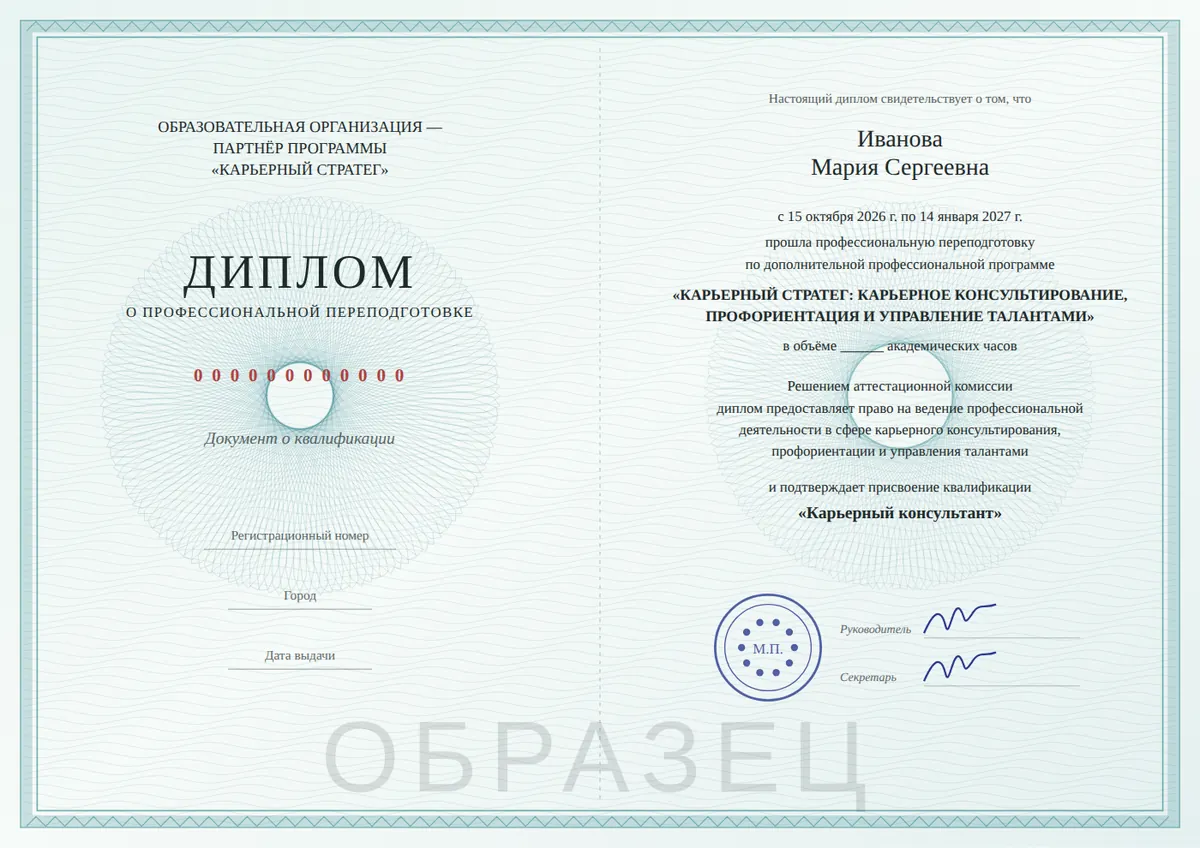
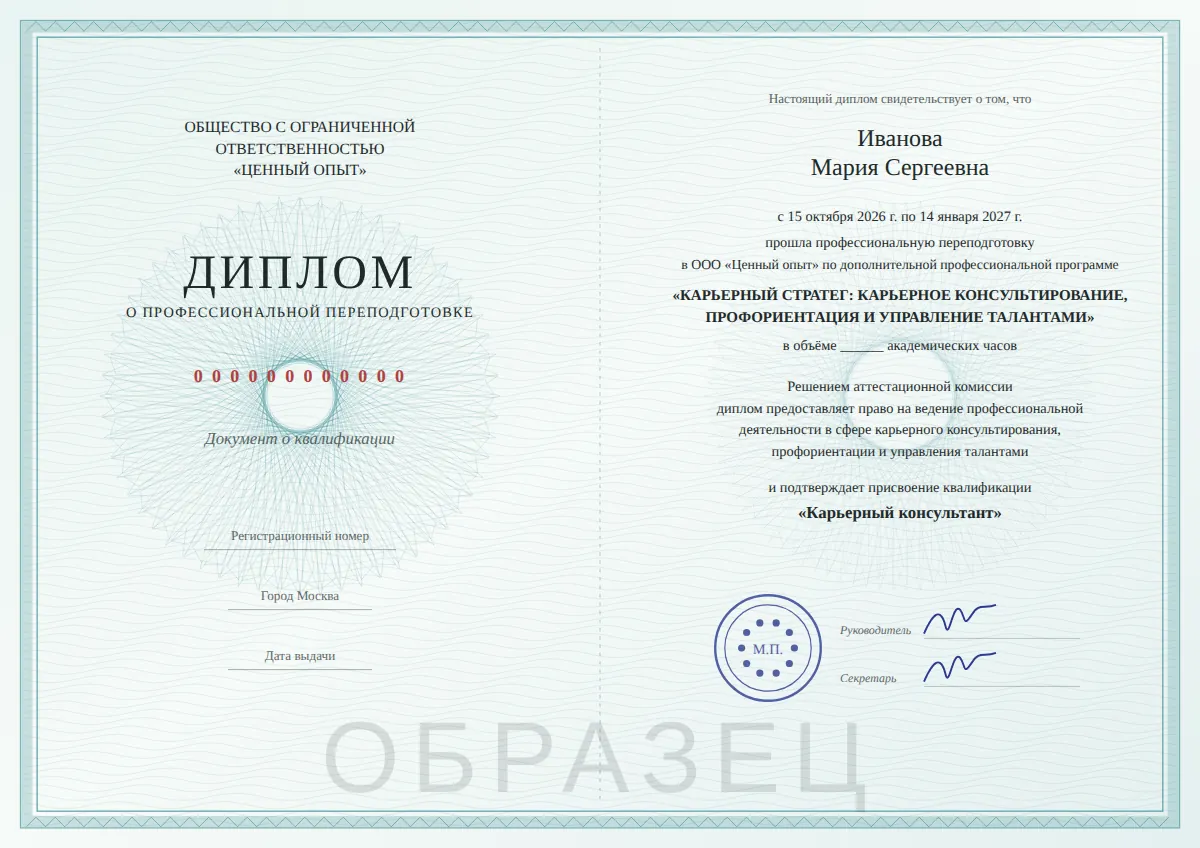
Партнёр «Ценный опыт», расписание, рассрочка Продамус, взнос АККС, кейсы, доп. кнопки записи
- ООО «Ценный опыт» в документах, оферте, футере и на образце диплома
- эфиры по воскресеньям в 13:00 мск, нагрузка 6 часов в неделю
- рассрочка через «Продамус», 6 банков; взнос АККС 6 000 ₽, первый год за счёт школы
- три мини-кейса под логотипами клиентов, логотип и сертификат АККС
- ещё три кнопки записи по странице, разница тарифов в карточке «Продвинутого»

Claude-Session: https://claude.ai/code/session_01MnFDxTyUvkRmjoPs4gTF9a

diff --git a/index.html b/index.html
@@ -53,12 +53,12 @@
       "mainEntity": [
         { "@type": "Question", "name": "Будет ли курс полезен лично мне, если я уже работаю в HR?", "acceptedAnswer": { "@type": "Answer", "text": "Да. Программа даёт то, чего обычно не хватает в операционном HR: доказательную психометрику, ИИ-инструменты на каждом этапе и язык бизнеса — ROI, eNPS, удержание." } },
         { "@type": "Question", "name": "Не слишком ли дорого?", "acceptedAnswer": { "@type": "Answer", "text": "Чтобы закрыть три компетенции отдельными курсами у разных школ, нужно от 300 000 ₽. Здесь это одна программа и один тариф без докупок, с рассрочкой на 24 месяца без переплаты." } },
-        { "@type": "Question", "name": "Смогу ли я совмещать с работой и семьёй?", "acceptedAnswer": { "@type": "Answer", "text": "Один живой модуль в неделю, запись появляется в личном кабинете. Практикумы и домашние задания выполняете в удобное время. По-честному: внутри много работы, закладывайте время каждую неделю — на эфир, практикум и домашку." } },
+        { "@type": "Question", "name": "Смогу ли я совмещать с работой и семьёй?", "acceptedAnswer": { "@type": "Answer", "text": "Живой модуль — по воскресеньям в 13:00 по Москве, запись появляется в личном кабинете. Закладывайте 6 часов в неделю: эфир, менторская группа, практика и домашка." } },
         { "@type": "Question", "name": "Найду ли я первых клиентов без опыта?", "acceptedAnswer": { "@type": "Answer", "text": "Практика идёт внутри курса на реальных и учебных кейсах, первые пилотные клиенты — из вашего окружения. В тарифе «Продвинутый» есть бонусный модуль «Построение и продвижение частной практики»: упаковка, цена, где брать клиентов." } },
         { "@type": "Question", "name": "Нужно ли профильное образование (психология)?", "acceptedAnswer": { "@type": "Answer", "text": "Нет. Важнее эмпатия и управленческий или HR-опыт." } },
         { "@type": "Question", "name": "Чем курс отличается от астрологии, таро или соционики?", "acceptedAnswer": { "@type": "Answer", "text": "Мы не гадаем по типу личности. В основе — Big Five, модель с самой серьёзной научной базой, её используют в 150+ странах." } },
         { "@type": "Question", "name": "Смогу ли я работать с ИИ, если я не технарь?", "acceptedAnswer": { "@type": "Answer", "text": "Да. Все промпты готовы и встроены в шаблоны. От вас нужна роль куратора: проверить, откалибровать и утвердить результат." } },
-        { "@type": "Question", "name": "В чём разница тарифов 99 900 и 159 900 ₽?", "acceptedAnswer": { "@type": "Answer", "text": "«Продвинутый» добавляет защиту итогового проекта, диплом о профессиональной переподготовке установленного образца, членство в АККС и бонусный модуль «Построение и продвижение частной практики»." } },
+        { "@type": "Question", "name": "В чём разница тарифов 99 900 и 159 900 ₽?", "acceptedAnswer": { "@type": "Answer", "text": "«Продвинутый» добавляет защиту итогового проекта, диплом о профессиональной переподготовке установленного образца от ООО «Ценный опыт», членство в АККС с оплаченным первым годом и бонусный модуль «Построение и продвижение частной практики»." } },
         { "@type": "Question", "name": "Что даёт членство в АККС на практике?", "acceptedAnswer": { "@type": "Answer", "text": "Статус и знак качества для клиентов, супервизию и наставничество, закрытый клуб выпускников и совместные проекты от имени ассоциации." } },
         { "@type": "Question", "name": "Что если я не успеваю по времени?", "acceptedAnswer": { "@type": "Answer", "text": "Записи всех эфиров остаются в личном кабинете, срок доступа указан в оферте." } }
       ]
@@ -183,7 +183,7 @@
 <!-- 03 SHIFT -->
 <section class="sec sec--sand">
   <div class="wrap stack-48">
-    <h2 class="h2 h2--shift">Но что, если ваша ценность больше не измеряется <span class="muted">числом закрытых вакансий или сессий?</span></h2>
+    <h2 class="h2 h2--shift">Но что, если ваша ценность больше не измеряется <span class="muted">числом закрытых вакансий, сессий или годами в одной профессии?</span></h2>
     <div class="stack-12">
       <div class="shift"><div class="shift__from"><span class="label">01 · Было</span><span class="shift__big">Интуиция</span></div><div class="shift__to"><span class="label">Стало</span><span class="shift__big">→ Доказательная методология</span><span class="shift__d">Решения на основе психометрики (Big Five), а не «мне так кажется»</span></div></div>
       <div class="shift"><div class="shift__from"><span class="label">02 · Было</span><span class="shift__big">Рутина</span></div><div class="shift__to"><span class="label">Стало</span><span class="shift__big">→ Стратегия</span><span class="shift__d">Резюме и расчёты соберёт ИИ. А вы будете тем, кто видит, где он наврал — и где человек напротив себя обманывает</span></div></div>
@@ -209,6 +209,12 @@
       <div class="usp" tabindex="0"><div class="usp__top"><span class="usp__n">05</span><span class="usp__gem"></span></div><div><h3>Двойное применение навыков</h3><p>В найме (HRBP, Talent Manager) и в независимой практике</p></div></div>
       <div class="usp" tabindex="0"><div class="usp__top"><span class="usp__n">06</span><span class="usp__gem"></span></div><div><h3>Самый системный курс на рынке*</h3><p>Одна система вместо трёх курсов, которые потом придётся склеивать самой</p></div></div>
       <p class="usp-note">* По итогам кастдева: опрос 260 человек из целевой аудитории программы.</p>
+    </div>
+  </div>
+  <div class="wrap">
+    <div class="cta-strip">
+      <p>Старт 15 октября. Места в менторских группах ограничены.</p>
+      <a class="btn-pill btn-pill--gold btn-pill--lg btn-pill--wrap" href="#apply" data-cta="main">Записаться на поток</a>
     </div>
   </div>
 </section>
@@ -296,7 +302,7 @@
         </blockquote>
         <div class="honest">
           <span class="label label--terra">Честно о том, кому рано</span>
-          <p>Если вы в остром выгорании и сил нет совсем — сначала восстановитесь. Курс требует времени каждую неделю, это не терапия.</p>
+          <p>Если вы в остром выгорании и сил нет совсем — сначала восстановитесь. Курс требует 6 часов в неделю, это не терапия.</p>
           <p>Если пока не понятно, хотите ли вы вообще работать с людьми, — начните с бесплатной консультации. Иногда я говорю «вам пока не сюда» — и это нормально.</p>
         </div>
         <a class="btn-pill btn-pill--teal btn-pill--lg btn-pill--wrap" href="#apply" data-plan="Консультация: разбор перехода">Разобрать мой переход на консультации</a>
@@ -336,6 +342,27 @@
       <ul class="clients">
         <li>Касперский</li><li>Сбер</li><li>Т-Банк</li><li>МТС</li><li>Крок</li><li>Лемана Про</li><li>Polaris</li><li>Philip Morris</li><li>Haier</li><li>Россети</li>
       </ul>
+      <div class="cases">
+        <article class="case">
+          <span class="case__seg">HR · смена роли</span>
+          <h3>Оффер ещё до конца мастерской</h3>
+          <p><b>Было:</b> 2 года в IT-рекрутинге «потому что так сложилось», параллельно психология и CV-райтинг — и ни в чём нет «хочу».</p>
+          <p><b>Стало:</b> оффер во время программы, последняя встреча совпала с последним днём на старом месте. Сейчас — стартап: таланты, комьюнити, коммуникации.</p>
+        </article>
+        <article class="case">
+          <span class="case__seg">Смена профессии</span>
+          <h3>10 лет госслужбы → своя практика</h3>
+          <p><b>Было:</b> почти 10 лет на нелюбимой работе, выгорание, «ничего не знаю, не умею и никому не нужна».</p>
+          <p><b>Стало:</b> переход в коммерческий проект с удалёнкой, через 3 года — своя практика: консультации расписаны на месяц вперёд, доход сравнялся с наймом.</p>
+        </article>
+        <article class="case">
+          <span class="case__seg">50+ · 20 лет в профессии</span>
+          <h3>Хотела уйти — перевлюбилась в свою работу</h3>
+          <p><b>Было:</b> замглавреда крупного IT-издания, 20 лет копирайтинга «без удовольствия», почти ушла в продюсеры.</p>
+          <p><b>Стало:</b> осталась в профессии, но сменила роль: офлайн-площадки, партнёрские проекты, выступления спикером и медиатором.</p>
+        </article>
+      </div>
+      <p class="hint">Имена и детали изменены по просьбе клиентов.</p>
     </div>
     <div class="author__stage">
       <div class="author__stage-photo">
@@ -367,8 +394,8 @@
     <div class="facts-grid">
       <div><b>3</b><span>месяца</span></div>
       <div><b>13</b><span>недель</span></div>
-      <div><b>3</b><span>модуля + бонус</span></div>
-      <div><b>1</b><span>живой модуль в неделю</span></div>
+      <div><b>Вс 13:00</b><span>живой эфир, мск</span></div>
+      <div><b>6 ч</b><span>в неделю с практикой</span></div>
     </div>
     <div class="mod-tabs" role="tablist" aria-label="Модули программы">
       <button class="mod-tab is-active" role="tab" aria-selected="true" data-mod="0"><span>Модуль 1 · недели 1–5</span><b>Карьерное консультирование</b></button>
@@ -453,14 +480,15 @@
       <div class="ruled">
         <h3 class="h3">Формат обучения</h3>
         <ul class="gem-list">
-          <li>Еженедельный живой модуль (вебинар/эфир) + запись в личном кабинете</li>
+          <li>Живой модуль каждое воскресенье в 13:00 по Москве + запись в личном кабинете</li>
+          <li>Менторская группа и отработка на практике между эфирами</li>
           <li>Практикум после каждой темы на реальных или учебных кейсах</li>
           <li>Домашние задания с обратной связью куратора</li>
           <li>Групповая супервизия проведённых сессий</li>
           <li>Библиотека шаблонов: сессии, отчёты, договоры, презентации для бизнеса</li>
           <li>ИИ-инструменты и промпт-библиотека встроены в каждый модуль</li>
         </ul>
-        <p class="body-muted honest-line">По-честному: внутри много работы. Закладывайте время каждую неделю — на эфир, практикум и домашку. Меньше не получится, если хотите профессию, а не сертификат.</p>
+        <p class="body-muted honest-line">По-честному: внутри много работы. Закладывайте 6 часов в неделю — эфир, менторская группа, практика и домашка. Меньше не получится, если хотите профессию, а не сертификат.</p>
       </div>
       <div class="ruled">
         <h3 class="h3">Итоговая аттестация</h3>
@@ -470,6 +498,10 @@
           <div><b>Трек «Практика»</b><span>Запуск независимой консультационной практики: пакет услуг, ценообразование, первые кейсы, расчёт LTV</span></div>
         </div>
       </div>
+    </div>
+    <div class="cta-strip">
+      <p>Хотите сначала обсудить программу? Оставьте заявку — ответим на вопросы и поможем выбрать тариф.</p>
+      <a class="btn-pill btn-pill--gold btn-pill--lg btn-pill--wrap" href="#apply" data-cta="main">Записаться на поток</a>
     </div>
   </div>
 </section>
@@ -565,7 +597,7 @@
         <span class="eyebrow eyebrow--gold">Документы</span>
         <h2 class="h2">Что вы получите по итогам</h2>
       </div>
-      <div class="akks-logo" aria-label="АККС">АККС</div>
+      <img class="akks-img" src="img/akks-logo.webp" alt="Ассоциация карьерного консультирования и сопровождения (АККС)" width="360" height="243" loading="lazy">
     </div>
     <div class="grid-300">
       <article class="doc">
@@ -574,12 +606,12 @@
       </article>
       <article class="doc doc--gold">
         <img class="doc__img" src="img/diploma.webp" alt="Образец диплома о профессиональной переподготовке по программе «Карьерный стратег»" width="1200" height="848" loading="lazy">
-        <!-- TODO: указать название партнёра-лицензиата, номер лицензии и ссылку на реестр Рособрнадзора -->
-        <div class="doc__body"><h3>Диплом о профессиональной переподготовке установленного образца</h3><p>Выдаёт образовательная организация-партнёр с лицензией на образовательную деятельность, сведения вносятся в ФИС ФРДО. Для работы в найме на позициях, где нужен документ о квалификации.</p><span class="tag tag--gold">Тариф «Продвинутый» · 159 900 ₽</span></div>
+        <!-- TODO: добавить номер лицензии ООО «Ценный опыт» и ссылку на реестр Рособрнадзора -->
+        <div class="doc__body"><h3>Диплом о профессиональной переподготовке установленного образца</h3><p>Выдаёт партнёр программы — ООО «Ценный опыт», образовательная организация с лицензией; сведения вносятся в ФИС ФРДО. Для работы в найме на позициях, где нужен документ о квалификации.</p><span class="tag tag--gold">Тариф «Продвинутый» · 159 900 ₽</span></div>
       </article>
       <article class="doc doc--gold">
-        <div class="doc__paper" aria-hidden="true"><span class="doc__kind">Сертификат</span><span class="doc__title">члена АККС</span><span class="doc__line"></span><span class="doc__line doc__line--s"></span></div>
-        <div class="doc__body"><h3>Сертификат члена АККС</h3><p>Членство в Ассоциации карьерного консультирования и сопровождения.</p><span class="tag tag--gold">Тариф «Продвинутый» · 159 900 ₽</span></div>
+        <img class="doc__img" src="img/akks-certificate.webp" alt="Сертификат действительного члена АККС — пример сертификата автора программы" width="1200" height="675" loading="lazy">
+        <div class="doc__body"><h3>Сертификат члена АККС</h3><p>Действительное членство в Ассоциации карьерного консультирования и сопровождения. Взнос за первый год (6 000 ₽) оплачиваем мы — после итоговой аттестации и защиты. На фото — сертификат автора программы.</p><span class="tag tag--gold">Тариф «Продвинутый» · 159 900 ₽</span></div>
       </article>
     </div>
   </div>
@@ -601,7 +633,7 @@
     <div class="split-440 split--gap16 split--stretch">
       <div class="plan">
         <div class="stack-6"><span class="plan__name">Базовый</span><span class="plan__sub">Полная программа обучения (3 модуля, 13 недель)</span></div>
-        <div class="stack-6"><span class="plan__price">99 900 ₽</span><span class="plan__inst">от 4 163 ₽/мес в рассрочку на 24 мес., без переплаты</span></div>
+        <div class="stack-6"><span class="plan__price">99 900 ₽</span><span class="plan__inst">от 4 163 ₽/мес в рассрочку на 24 мес. без переплаты · 6 банков на выбор</span></div>
         <div class="plan__list plan__list--ruled">
           <span class="label label--teal">Входит</span>
           <ul class="checks"><li>Полная программа: 3 модуля, 13 недель</li><li>Практическая сдача модулей и супервизия</li><li>Сертификат о прохождении программы</li><li>Метод можно применять в частной практике и внутри компании</li></ul>
@@ -615,10 +647,10 @@
       <div class="plan plan--pro">
         <span class="plan__badge">Рекомендуем</span>
         <div class="stack-6"><span class="plan__name">Продвинутый</span><span class="plan__sub">Всё, что в базовом тарифе + диплом, членство в АККС и бонусный модуль</span></div>
-        <div class="stack-6"><span class="plan__price">159 900 ₽</span><span class="plan__inst">от 6 663 ₽/мес в рассрочку на 24 мес., без переплаты</span></div>
+        <div class="stack-6"><span class="plan__price">159 900 ₽</span><span class="plan__inst">от 6 663 ₽/мес в рассрочку на 24 мес. без переплаты · 6 банков на выбор</span><span class="plan__diff">+60 000 ₽ к «Базовому»: защита и диплом, АККС с оплаченным первым годом, бонусный модуль</span></div>
         <div class="plan__list plan__list--ruled">
           <span class="label label--gold">Входит</span>
-          <ul class="checks checks--gold"><li>Всё, что в базовом тарифе</li><li>Защита итогового проекта и итоговая аттестация</li><li>Диплом о профессиональной переподготовке установленного образца</li><li>Членство в АККС — статус, нетворкинг, доступ к сообществу</li><li><b>Бонусный модуль «Построение и продвижение частной практики»</b></li></ul>
+          <ul class="checks checks--gold"><li>Всё, что в базовом тарифе</li><li>Защита итогового проекта и итоговая аттестация</li><li>Диплом о профессиональной переподготовке установленного образца</li><li>Членство в АККС — первый год (6 000 ₽) оплачиваем мы</li><li><b>Бонусный модуль «Построение и продвижение частной практики»</b></li></ul>
         </div>
         <a class="btn-pill btn-pill--gold btn-pill--block" href="#apply" data-plan="Продвинутый">Выбрать «Продвинутый»</a>
       </div>
@@ -627,7 +659,7 @@
       <span>Не готовы оплатить сейчас? <strong>Зафиксируйте место за 2 000 ₽</strong> — сумма войдёт в стоимость тарифа.</span>
       <a href="#apply" data-plan="Бронь места">Забронировать место →</a>
     </div>
-    <p class="small-dark">Условия оплаты, рассрочки, брони и возврата — в <a href="oferta.html">договоре-оферте</a>. Оплачивая участие, вы принимаете её условия.</p>
+    <p class="small-dark">Рассрочку оформляет сервис «Продамус» — одобрение от одного из 6 банков-партнёров. Условия оплаты, рассрочки, брони и возврата — в <a href="oferta.html">договоре-оферте</a>. Оплачивая участие, вы принимаете её условия.</p>
   </div>
 </section>
 
@@ -645,6 +677,7 @@
     </ol>
     <div class="stack-16">
       <h3 class="h3">Что даёт членство в АККС</h3>
+      <p class="body-muted">Ежегодный взнос ассоциации — 6 000 ₽. За первый год его платим мы, когда вы проходите итоговую аттестацию и защищаете проект (тариф «Продвинутый»).</p>
       <ul class="akks-grid">
         <li><span class="gem gem--sm"></span>Статус и «знак качества» для клиентов</li>
         <li><span class="gem gem--sm"></span>Персональная страница на домене ассоциации</li>
@@ -707,7 +740,10 @@
         <figcaption>Ксения Б. · «Идеальный кандидат», 2023</figcaption>
       </figure>
     </div>
-    <a class="btn-outline reviews__all" href="https://t.me/hrexpert63_feedback" rel="noopener" target="_blank">Все отзывы в отдельном канале →</a>
+    <div class="reviews__actions">
+      <a class="btn-pill btn-pill--teal btn-pill--lg btn-pill--wrap" href="#apply" data-cta="main">Хочу так же — записаться на поток</a>
+      <a class="btn-outline reviews__all" href="https://t.me/hrexpert63_feedback" rel="noopener" target="_blank">Все отзывы в отдельном канале →</a>
+    </div>
   </div>
 </section>
 
@@ -740,13 +776,13 @@
     <div class="faq">
       <div class="faq__item is-open"><button type="button" aria-expanded="true"><span>Будет ли курс полезен лично мне, если я уже работаю в HR?</span><i></i></button><p>Да. Программа даёт то, чего обычно не хватает в операционном HR: доказательную психометрику, ИИ-инструменты на каждом этапе и язык бизнеса — ROI, eNPS, удержание.</p></div>
       <div class="faq__item"><button type="button" aria-expanded="false"><span>Не слишком ли дорого?</span><i></i></button><p>Чтобы закрыть три компетенции отдельными курсами у разных школ, нужно от 300 000 ₽. Здесь это одна программа и один тариф без докупок, с рассрочкой на 24 месяца без переплаты.</p></div>
-      <div class="faq__item"><button type="button" aria-expanded="false"><span>Смогу ли я совмещать с работой и семьёй?</span><i></i></button><p>Один живой модуль в неделю, запись появляется в личном кабинете. Практикумы и домашние задания выполняете в удобное время. По-честному: внутри много работы — закладывайте время каждую неделю на эфир, практикум и домашку. Увольняться для этого не нужно.</p></div>
+      <div class="faq__item"><button type="button" aria-expanded="false"><span>Смогу ли я совмещать с работой и семьёй?</span><i></i></button><p>Живой модуль — по воскресеньям в 13:00 по Москве, запись появляется в личном кабинете. Закладывайте 6 часов в неделю: эфир, менторская группа, практика и домашка — остальное в удобное время. Увольняться для этого не нужно.</p></div>
       <div class="faq__item"><button type="button" aria-expanded="false"><span>Найду ли я первых клиентов без опыта?</span><i></i></button><p>Практика идёт внутри курса на реальных и учебных кейсах, первые пилотные клиенты — из вашего окружения. В тарифе «Продвинутый» есть <a href="#bonus">бонусный модуль «Построение и продвижение частной практики»</a>: упаковка, цена, где брать клиентов.</p></div>
       <div class="faq__item"><button type="button" aria-expanded="false"><span>Нужно ли профильное образование (психология)?</span><i></i></button><p>Нет. Важнее эмпатия и управленческий или HR-опыт.</p></div>
       <div class="faq__item"><button type="button" aria-expanded="false"><span>Чем курс отличается от астрологии, таро или соционики?</span><i></i></button><p>Мы не гадаем по типу личности. В основе — Big Five, модель с самой серьёзной научной базой, её используют в 150+ странах. Сравнение с DISC и MBTI — в таблице валидности в блоке «Методология».</p></div>
       <div class="faq__item"><button type="button" aria-expanded="false"><span>Смогу ли я работать с ИИ, если я не технарь?</span><i></i></button><p>Да. Все промпты готовы и встроены в шаблоны. От вас нужна роль куратора: проверить, откалибровать и утвердить результат.</p></div>
-      <div class="faq__item"><button type="button" aria-expanded="false"><span>В чём разница тарифов 99 900 и 159 900 ₽?</span><i></i></button><p>«Продвинутый» добавляет защиту итогового проекта, диплом о профессиональной переподготовке установленного образца, членство в АККС и бонусный модуль «Построение и продвижение частной практики». Подробное сравнение — в блоке «Тарифы».</p></div>
-      <div class="faq__item"><button type="button" aria-expanded="false"><span>Что даёт членство в АККС на практике?</span><i></i></button><p>Статус и знак качества для клиентов, супервизию и наставничество, закрытый клуб выпускников и совместные проекты от имени ассоциации. Подробнее — в блоке «Карьерный трек».</p></div>
+      <div class="faq__item"><button type="button" aria-expanded="false"><span>В чём разница тарифов 99 900 и 159 900 ₽?</span><i></i></button><p>«Продвинутый» добавляет защиту итогового проекта, диплом о профессиональной переподготовке установленного образца от ООО «Ценный опыт», членство в АККС с оплаченным первым годом (6 000 ₽) и бонусный модуль «Построение и продвижение частной практики». Подробное сравнение — в блоке «Тарифы».</p></div>
+      <div class="faq__item"><button type="button" aria-expanded="false"><span>Что даёт членство в АККС на практике?</span><i></i></button><p>Статус и знак качества для клиентов, супервизию и наставничество, закрытый клуб выпускников и совместные проекты от имени ассоциации. Ежегодный взнос — 6 000 ₽, первый год оплачиваем мы. Подробнее — в блоке «Карьерный трек».</p></div>
       <div class="faq__item"><button type="button" aria-expanded="false"><span>Что если я не успеваю по времени?</span><i></i></button><p>Записи всех эфиров остаются в личном кабинете — смотрите в своём темпе. Срок доступа указан в <a href="oferta.html">оферте</a>.</p></div>
     </div>
   </div>
@@ -826,7 +862,7 @@
         <a href="soglasie.html">Согласие на обработку персональных данных</a>
       </div>
     </div>
-    <div class="footer__legal">ИП Мягченкова Анастасия Владимировна · г. Самара · ИНН 631229128657 · ОГРНИП 324632700114710 · Полные реквизиты — в <a href="oferta.html">оферте</a> · Образовательные услуги по программе профессиональной переподготовки оказывает партнёр с лицензией на образовательную деятельность.</div>
+    <div class="footer__legal">ИП Мягченкова Анастасия Владимировна · г. Самара · ИНН 631229128657 · ОГРНИП 324632700114710 · Полные реквизиты — в <a href="oferta.html">оферте</a> · Образовательные услуги по программе профессиональной переподготовки оказывает ООО «Ценный опыт» (ИНН 7706806123, ОГРН 1147746124085).</div>
   </div>
 </footer>
 

diff --git a/oferta.html b/oferta.html
@@ -37,14 +37,14 @@
   <p>1.4. <b>Живой модуль (эфир)</b> — онлайн-занятие в формате видеоконференции.</p>
   <p>1.5. <b>Личный кабинет</b> — раздел образовательной платформы или закрытый Telegram-канал, где размещаются записи эфиров, материалы и задания.</p>
   <p>1.6. <b>Чат</b> — группа в Telegram или ином мессенджере для общения участников потока, вопросов и обратной связи.</p>
-  <p>1.7. <b>Партнёр</b> — образовательная организация, имеющая лицензию на образовательную деятельность, которая проводит итоговую аттестацию и выдаёт диплом о профессиональной переподготовке в тарифе «Продвинутый».</p>
+  <p>1.7. <b>Партнёр</b> — ООО «Ценный опыт» (ОГРН 1147746124085, ИНН 7706806123, КПП 771501001, юридический адрес: 127322, г. Москва, ул. Яблочкова, д. 21, к. 2, пом. 14), образовательная организация, имеющая лицензию на образовательную деятельность. Партнёр проводит итоговую аттестацию и выдаёт диплом о профессиональной переподготовке в тарифе «Продвинутый».</p>
 
   <h2>2. Предмет договора</h2>
   <p>2.1. Исполнитель оказывает Заказчику информационно-консультационные услуги в рамках Программы по выбранному Тарифу, а Заказчик оплачивает их.</p>
-  <p>2.2. Старт потока — 15 октября 2026 г. Продолжительность — 13 недель, 3 модуля. Формат — онлайн: еженедельный живой модуль, записи эфиров, практикумы, домашние задания с обратной связью куратора, групповая супервизия.</p>
+  <p>2.2. Старт потока — 15 октября 2026 г. Продолжительность — 13 недель, 3 модуля. Формат — онлайн: живой модуль по воскресеньям в 13:00 по московскому времени, записи эфиров, работа в менторской группе, практикумы, домашние задания с обратной связью куратора, групповая супервизия. Рекомендуемая нагрузка — 6 часов в неделю.</p>
   <p>2.3. Расписание эфиров сообщается в Чате и Личном кабинете до старта потока. Исполнитель вправе переносить отдельные эфиры с уведомлением участников не позднее чем за 24 часа.</p>
-  <p>2.4. Деятельность Исполнителя не подлежит лицензированию. Образовательные услуги по программе профессиональной переподготовки в тарифе «Продвинутый» оказывает Партнёр по отдельному договору, который Заказчик заключает с Партнёром. Сведения о Партнёре и его лицензии предоставляются до заключения договора.</p>
-  <!-- TODO: указать название партнёра-лицензиата, номер лицензии, объём программы в часах -->
+  <p>2.4. Деятельность Исполнителя не подлежит лицензированию. Образовательные услуги по программе профессиональной переподготовки в тарифе «Продвинутый» оказывает Партнёр по отдельному договору, который Заказчик заключает с Партнёром. Реквизиты лицензии Партнёра предоставляются по запросу до заключения договора.</p>
+  <!-- TODO: указать номер лицензии ООО «Ценный опыт» и объём программы в часах -->
 
   <h2>3. Тарифы и состав</h2>
   <table>
@@ -54,8 +54,7 @@
   </table>
   <p>3.1. Диплом о профессиональной переподготовке выдаётся Партнёром при наличии у Заказчика среднего профессионального или высшего образования и успешном прохождении итоговой аттестации. Сведения о выданном дипломе вносятся Партнёром в ФИС ФРДО.</p>
   <p>3.2. Сертификат Исполнителя выдаётся при выполнении практических заданий модулей.</p>
-  <p>3.3. Членство в АККС оформляется на условиях ассоциации; срок членства и размер взносов после окончания Программы сообщаются до оплаты.</p>
-  <!-- TODO: уточнить срок членства в АККС и наличие ежегодного взноса -->
+  <p>3.3. Членство в АККС (Ассоциации карьерного консультирования и сопровождения) оформляется на условиях ассоциации. Ежегодный членский взнос — 6 000 ₽. Взнос за первый год оплачивает Исполнитель при условии прохождения Заказчиком итоговой аттестации и защиты итогового проекта; со второго года Заказчик оплачивает взнос самостоятельно, если хочет сохранить членство.</p>
   <p>3.4. Заказчик может перейти с «Базового» на «Продвинутый» тариф до окончания 5-й недели, доплатив разницу в стоимости.</p>
 
   <h2>4. Права и обязанности сторон</h2>
@@ -78,9 +77,8 @@
   </ul>
 
   <h2>5. Порядок оплаты</h2>
-  <p>5.1. Стоимость участия определяется Тарифом на Сайте на дату оплаты. Оплата производится безналичным переводом на расчётный счёт Исполнителя или через платёжный сервис, указанный при оформлении. Обязательство по оплате считается исполненным с момента поступления денег на счёт Исполнителя.</p>
-  <p>5.2. <b>Рассрочка.</b> Заказчик может оплатить участие в рассрочку до 24 месяцев через банк-партнёр. Рассрочку предоставляет банк по отдельному договору с Заказчиком. Для Заказчика рассрочка оформляется без переплаты: комиссию банка оплачивает Исполнитель. Исполнитель не отвечает за решение банка об отказе в рассрочке.</p>
-  <!-- TODO: указать банк рассрочки -->
+  <p>5.1. Стоимость участия определяется Тарифом на Сайте на дату оплаты. Оплата производится безналичным переводом на расчётный счёт Исполнителя или через платёжный сервис «Продамус». Обязательство по оплате считается исполненным с момента поступления денег на счёт Исполнителя.</p>
+  <p>5.2. <b>Рассрочка.</b> Заказчик может оплатить участие в рассрочку до 24 месяцев через сервис «Продамус» (prodamus.ru): заявка направляется в банки-партнёры сервиса (до 6 банков). Рассрочку предоставляет банк по отдельному договору с Заказчиком. Для Заказчика рассрочка оформляется без переплаты: комиссию банка оплачивает Исполнитель. Исполнитель не отвечает за решение банка об отказе в рассрочке.</p>
   <p>5.3. <b>Бронь.</b> Заказчик может забронировать место, оплатив 2 000 ₽. Сумма брони засчитывается в стоимость Тарифа при оплате до 15 октября 2026 г. Если Заказчик отказывается от участия до старта потока, бронь возвращается полностью.</p>
   <p>5.4. Исполнитель не отвечает за задержки платежей, вызванные работой банков и платёжных систем.</p>
 

diff --git a/styles.css b/styles.css
@@ -515,3 +515,18 @@ h1,h2,h3,p{margin:0}
 /* form: separate consents */
 .form__policy{font-size:12px;color:var(--mute2)}
 .btn-pill--wrap{white-space:normal}
+
+/* CTA strips, cases, AKKS */
+.cta-strip{margin-top:clamp(32px,4vw,56px);display:flex;flex-wrap:wrap;align-items:center;justify-content:space-between;gap:16px 24px;border-top:1px solid var(--line);padding-top:24px}
+.cta-strip p{font-size:16px;color:var(--mute3);max-width:620px}
+.sec--dark .cta-strip{border-color:var(--line-d)}
+.sec--dark .cta-strip p{color:var(--on-d1)}
+.cases{display:grid;grid-template-columns:repeat(auto-fit,minmax(min(100%,300px),1fr));gap:16px;margin-top:12px}
+.case{background:var(--dark2);border:1px solid var(--line-d);border-radius:22px;padding:24px;display:flex;flex-direction:column;gap:10px}
+.case__seg{align-self:flex-start;font-size:12px;font-weight:600;letter-spacing:.08em;text-transform:uppercase;color:var(--gold)}
+.case h3{font-family:var(--head);font-weight:600;font-size:21px;line-height:1.2;letter-spacing:-.01em}
+.case p{font-size:14.5px;color:var(--on-d1);text-wrap:pretty}
+.case b{color:var(--paper)}
+.akks-img{width:150px;height:auto;background:#fff;border-radius:16px;padding:10px 14px}
+.plan__diff{font-size:13px;color:var(--gold2)}
+.reviews__actions{display:flex;flex-wrap:wrap;gap:12px;align-items:center}
